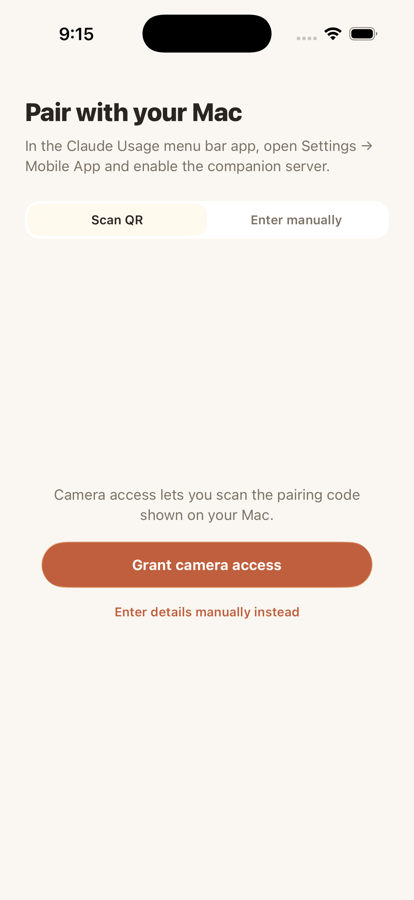
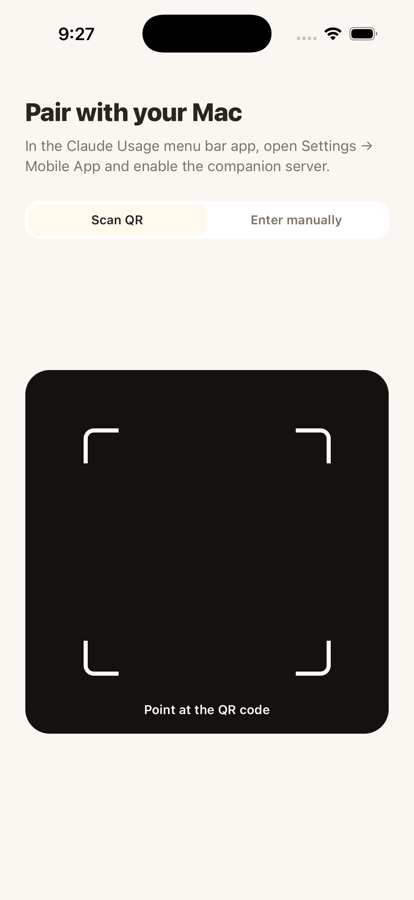
Refresh the README screenshots, and fix what they exposed
The images were technically current but shot on iOS 17.5, so none of them
showed the Liquid Glass they were meant to. Recaptured on iOS 26 with a
fixture that produces a coherent story rather than plausible-looking noise.

Two real bugs surfaced while doing it:

  - The QR scanner's reticle and hint are white because they sit on a camera
    feed. That feed is absent while the camera warms up and always absent on a
    simulator, so they rendered white on white. The frame now carries its own
    dark backdrop.
  - `model-split-chart` was the one chart still passing no `key` to its mark,
    which is what the leftover "could not infer a unique key" warning was.

Also confirms a property worth stating: the Release build shows the PAIRING
screen even though `EXPO_PUBLIC_PAIRING` was compiled into it. The dev
shortcut is `__DEV__`-guarded and cannot reach production.

Adds an analytics-detail shot — the hour profile, week-over-week overlay and
session-peak strip were the least visible and the most work.

diff --git a/src/app/pair.tsx b/src/app/pair.tsx
@@ -127,13 +127,17 @@ export default function PairScreen() {
               </View>
             ) : (
               <View style={[styles.cameraWrap, { borderColor: p.border }]}>
+                {/* The reticle and hint are white because they sit on a camera
+                    feed. That feed is absent while the camera warms up — and
+                    always absent on a simulator — so the frame carries its own
+                    dark backdrop, or they render white on white. */}
                 <CameraView
                   style={StyleSheet.absoluteFill}
                   facing="back"
                   barcodeScannerSettings={{ barcodeTypes: ['qr'] }}
                   onBarcodeScanned={({ data }) => onScanned(data)}
                 />
-                <Reticle color={p.surface} />
+                <Reticle color="#FFFDFA" />
                 <Text style={styles.scanHint}>Point at the QR code</Text>
               </View>
             )}
@@ -220,7 +224,14 @@ const styles = StyleSheet.create({
   scanArea: { flex: 1, marginTop: Space.xl, alignItems: 'center', justifyContent: 'center' },
   permWrap: { alignItems: 'center', gap: Space.lg, paddingHorizontal: Space.lg },
   permText: { fontSize: Type.body, lineHeight: 21, textAlign: 'center' },
-  cameraWrap: { width: '100%', aspectRatio: 1, borderRadius: Radius.lg, overflow: 'hidden', borderWidth: StyleSheet.hairlineWidth },
+  cameraWrap: {
+    width: '100%',
+    aspectRatio: 1,
+    borderRadius: Radius.lg,
+    overflow: 'hidden',
+    borderWidth: StyleSheet.hairlineWidth,
+    backgroundColor: '#15110E',
+  },
   reticleWrap: { position: 'absolute', top: '16%', left: '16%', right: '16%', bottom: '16%' },
   corner: { position: 'absolute', width: 34, height: 34 },
   scanHint: { position: 'absolute', bottom: Space.lg, alignSelf: 'center', color: '#FFFDFA', fontSize: Type.label, fontWeight: '600', textShadowColor: 'rgba(0,0,0,0.5)', textShadowRadius: 4 },

diff --git a/src/components/charts/model-split-chart.tsx b/src/components/charts/model-split-chart.tsx
@@ -47,7 +47,7 @@ export function ModelSplitChart({
             ] as [ModelKey, number][]
           )
             .filter(([, v]) => v > 0)
-            .map(([model, tokens]) => ({ day: d.key, label: d.label, model, tokens })),
+            .map(([model, tokens]) => ({ id: `${d.key}:${model}`, day: d.key, label: d.label, model, tokens })),
         ),
     [points],
   );
@@ -66,6 +66,7 @@ export function ModelSplitChart({
           y: 'tokens',
           z: 'model',
           color: 'model',
+          key: 'id',
           layout: stack({ order: ['Opus', 'Sonnet', 'Other'] }),
           radius: Radius.xs,
         }),

diff --git a/README.md b/README.md
@@ -10,9 +10,9 @@ history, see where it's *heading*.
 
 ## Screenshots
 
-| Usage | Analytics | Settings | Dark | Pair |
-|:-----:|:---------:|:--------:|:----:|:----:|
-| <img src="screenshots/overview.png" width="165" alt="Session gauge, projection, and burn-down" /> | <img src="screenshots/analytics.png" width="165" alt="Totals and tokens per day" /> | <img src="screenshots/settings.png" width="165" alt="Settings with history and diagnostics" /> | <img src="screenshots/dark.png" width="165" alt="The same screen in dark mode" /> | <img src="screenshots/pairing.png" width="165" alt="Pairing with your Mac" /> |
+| Usage | Analytics | Detail | Settings | Dark | Pair |
+|:-----:|:---------:|:------:|:--------:|:----:|:----:|
+| <img src="screenshots/overview.png" width="140" alt="Session gauge, projection line and burn-down" /> | <img src="screenshots/analytics.png" width="140" alt="Totals and tokens per day" /> | <img src="screenshots/analytics-detail.png" width="140" alt="Hour profile, week comparison and session peaks" /> | <img src="screenshots/settings.png" width="140" alt="History retention and diagnostics" /> | <img src="screenshots/dark.png" width="140" alt="The dashboard in dark mode" /> | <img src="screenshots/pairing.png" width="140" alt="Pairing with your Mac" /> |
 
 *Captured on iOS 26, where the tab bar, pills, buttons and segmented controls
 are real Liquid Glass.*
